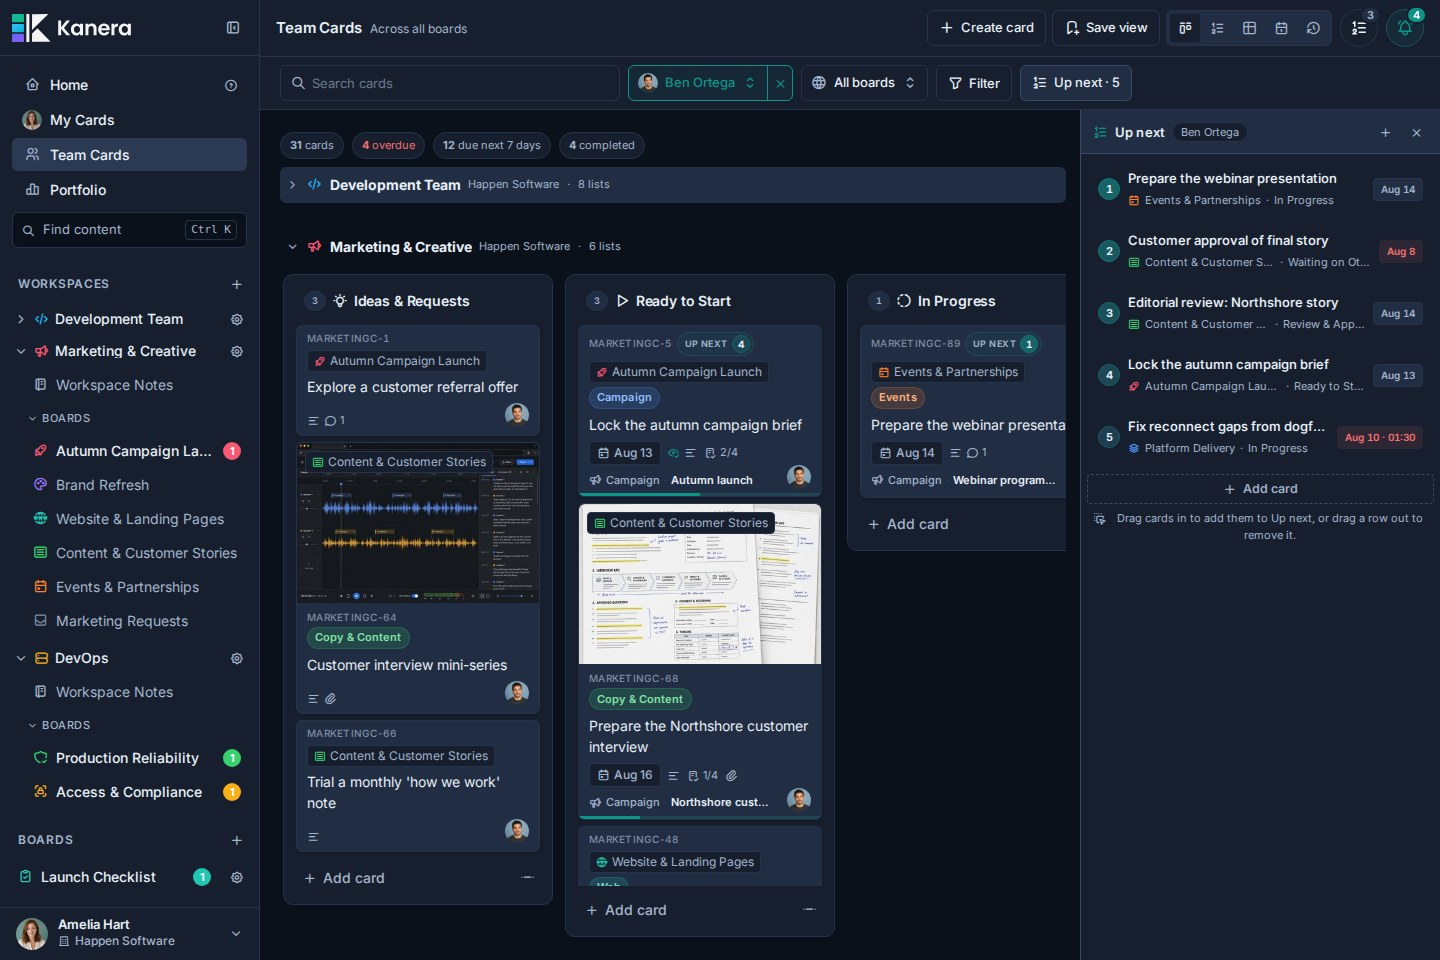
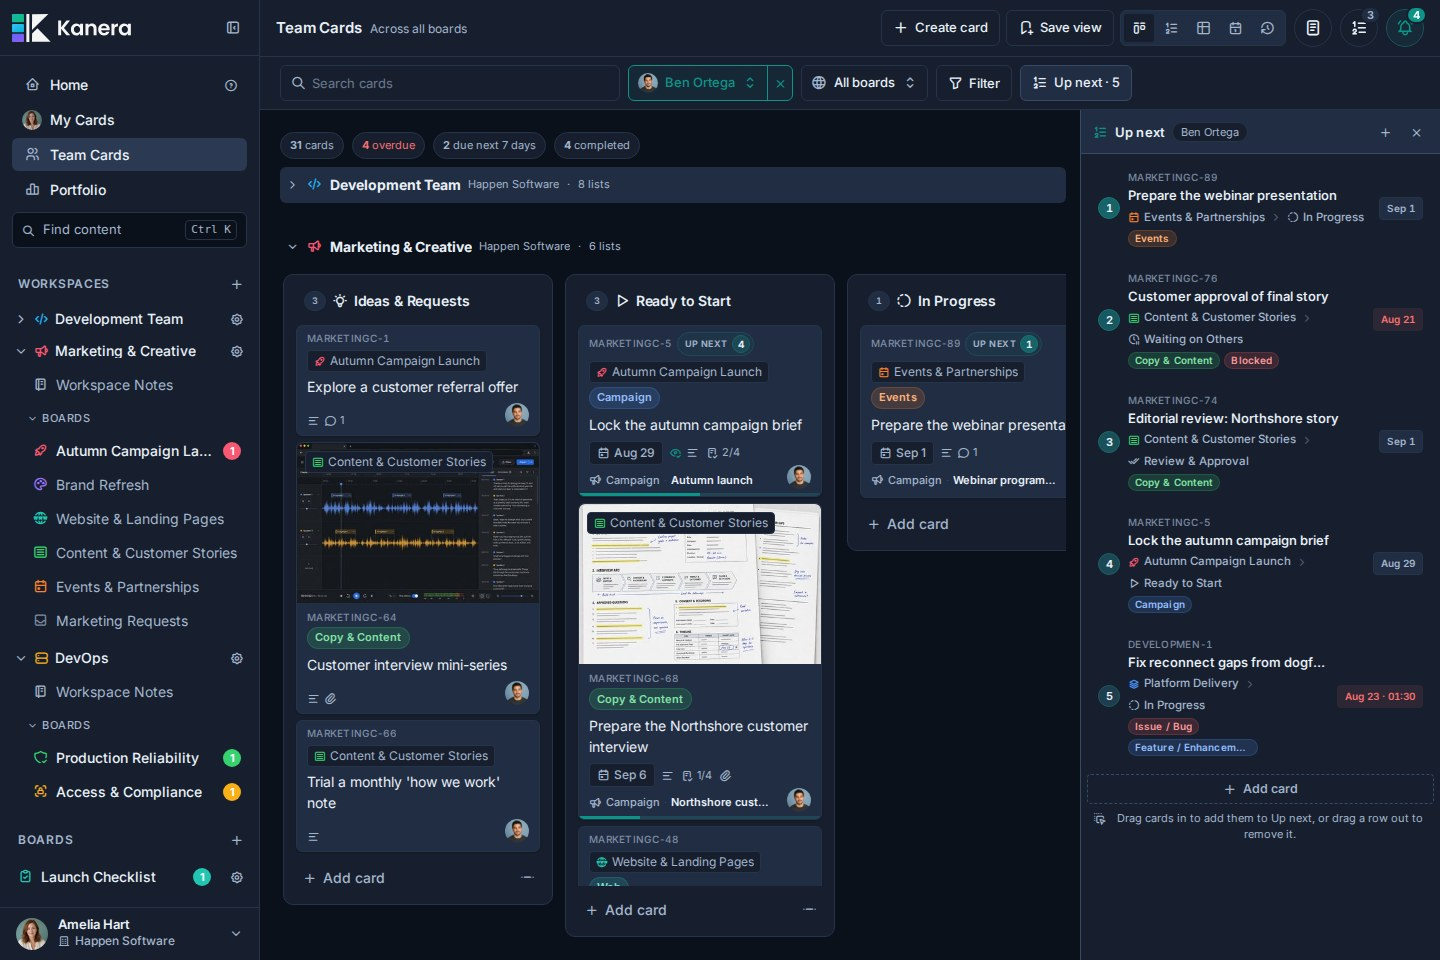
update README

diff --git a/README.md b/README.md
@@ -10,7 +10,7 @@ See what is assigned, what changed, what is blocked, and what has been completed
 
 </div>
 
-![Kanera Home showing Amelia's focus tiles, weekly agenda, and progress in dark mode](docs/readme-assets/home.jpg)
+![Kanera Autumn Campaign Launch board showing cards organised into shared lists](docs/readme-assets/board.jpg)
 
 Kanera coordinates assigned, active, blocked, and completed work across projects, clients, and teams from one fast, polished workspace. It brings boards, structured tasks, notes, assignments, progress history, automation, and integrations into one focused system—more visibility than a basic Kanban board without the overhead of a heavyweight work suite.
 
@@ -51,7 +51,13 @@ For work that does not need to share that setup, create a standalone board. It k
 
 Start with overdue work, items due today, the next seven days, and recent progress in one focused view. Jump back into active boards and scan the week without opening each project separately.
 
-![Kanera Home showing Amelia's focus tiles, weekly agenda, and progress in dark mode](docs/readme-assets/home.jpg)
+![Kanera Home showing Amelia's focus tiles, ranked Up next queue, recent boards, and weekly agenda in dark mode](docs/readme-assets/home.jpg)
+
+### Boards and shared lists keep the workflow visible
+
+Move cards through lists while keeping labels, assignees, due dates, checklist progress, and visual covers in view. Boards in a workspace share the same ordered lists, so stages such as Intake, In progress, Review, and Done remain consistent across related projects.
+
+![Kanera Autumn Campaign Launch board showing cards organised into shared lists](docs/readme-assets/board.jpg)
 
 ### Up next keeps priorities in order
 
@@ -59,11 +65,7 @@ Build one ranked queue from cards assigned to you across every accessible board.
 
 ![Kanera My Cards showing a ranked Up next queue beside assigned work](docs/readme-assets/my-cards-up-next.jpg)
 
-### Boards and shared lists keep the workflow visible
 
-Move cards through lists while keeping labels, assignees, due dates, checklist progress, and visual covers in view. Boards in a workspace share the same ordered lists, so stages such as Intake, In progress, Review, and Done remain consistent across related projects.
-
-![Kanera Autumn Campaign Launch board showing cards organised into shared lists](docs/readme-assets/board.jpg)
 
 ### Table view turns live work into structured reports
 
@@ -91,7 +93,7 @@ Descriptions, custom fields, checklists, due dates, comments, attachments, and a
 
 See the whole visible team or focus on one teammate without losing each card's board, list, fields, or permissions. Switch between Board, Table, Calendar, Work Done, and ranked team Up next views to review ownership, workload, and execution order across projects.
 
-![Kanera Team Cards view filtered to Ben Ortega across accessible boards](docs/readme-assets/team-cards.jpg)
+![Kanera Team Cards focused on Ben Ortega with his ranked Up next queue beside assigned work across accessible boards](docs/readme-assets/team-cards.jpg)
 
 ### Automations keep routine work moving
 
